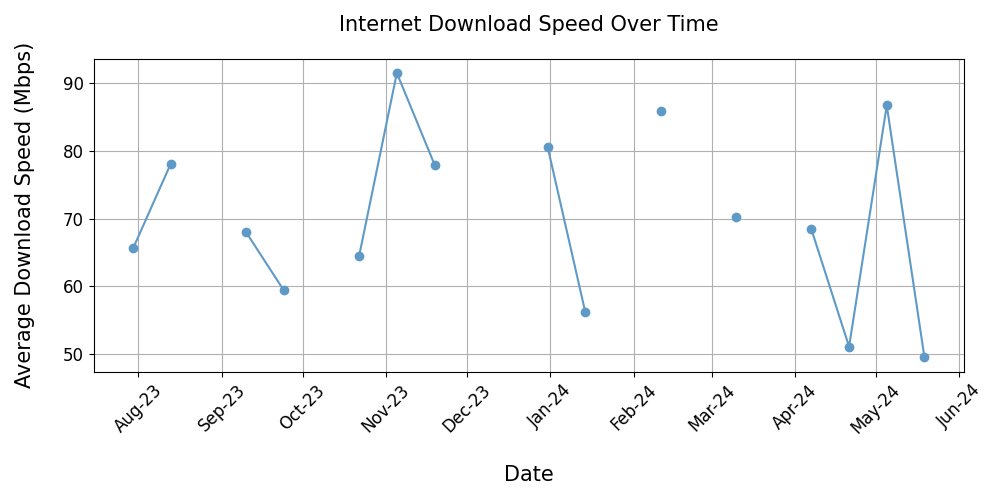
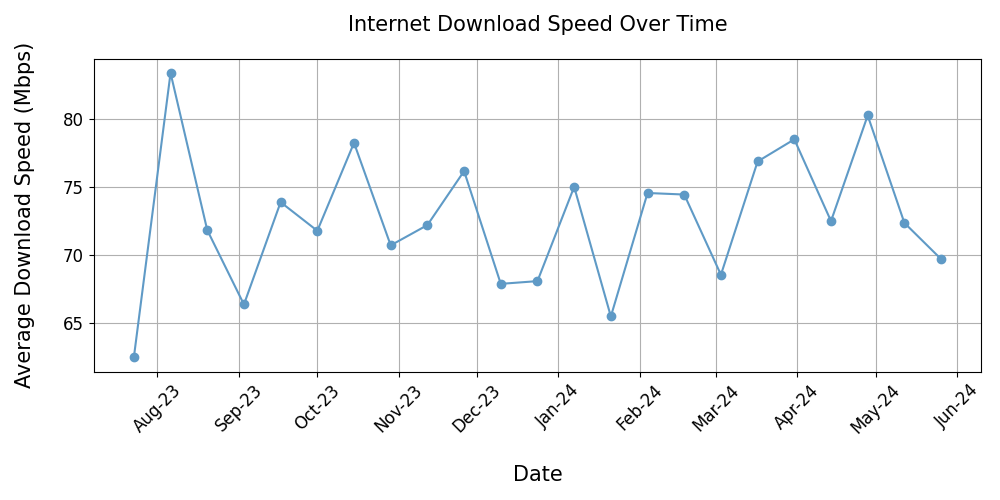
amended ai analysis

diff --git a/templates/analyse-ai.html b/templates/analyse-ai.html
@@ -14,32 +14,56 @@
 <div class="data-container">
     <div class="main-box">
             <h1><span class="highlight"> Analyse </span> your data </h1>
-        <table class="container" id="container1">
-            <tr>
-                <th><h2><span class="highlight-blue"> Summary</span></h2></th>
-            </tr>
-            <tr>
-
-                {% if summary == "": %}
-                  <td><h2>{{ message }}</h2></td>
-                {% else: %}
-                <td><h2>{{ summary }}</h2></td>
-                {% endif %}
-            </tr>
-            <tr>
-              <th><h2><span class="highlight-blue"> Recommendations</span></h2></th>
-            </tr>
-            <tr>
-                 {% if recommendations == "": %}
-                  <td><h2>{{ message }}</h2></td>
-                {% else: %}
-                <td><h2>{{ recommendations }}</h2></td>
-                {% endif %}
-            </tr>
-             <tr>
-                 <td colspan="2" class="bottom-row"><a href="{{ url_for('analyse') }}" class="btn btn-primary btn-block">Go Back</a></td>
-            </tr>
-        </table>
+<table class="container" id="container1">
+    <tr>
+        <th colspan="2"><h2><span class="highlight-blue">Summary</span></h2></th>
+    </tr>
+    <tr>
+        {% if summary == "" %}
+            <td colspan="2"><h3>{{ message }}</h3></td>
+        {% else %}
+            <td colspan="2"><h3>{{ sd_summary }}</h3></td>
+        {% endif %}
+    </tr>
+    <tr>
+        {% if summary == "" %}
+            <td colspan="2"><h3>{{ message }}</h3></td>
+        {% else %}
+            <td colspan="2"><h3>{{ avg_speed_summary }}</h3></td>
+        {% endif %}
+    </tr>
+    <tr>
+        <th colspan="2"><h2><span class="highlight-blue">Recommendations</span></h2></th>
+    </tr>
+    {% if recommendations == "" %}
+        <tr>
+            <td colspan="2"><h3>{{ message }}</h3></td>
+        </tr>
+    {% else %}
+        {% for key, value in recommendations.items() %}
+         <tr>
+             <th colspan="2"><h4><span class="highlight-blue">{{ key.replace("_"," ").title() }}</span></h4></th>
+         </tr>
+            {% if value is mapping %}
+                   {% for sub_key, sub_value in value.items() %}
+                <tr>
+                    <td><h5><strong>{{ sub_key.replace("_", " ").title() }}:</strong></h5></td>
+                    <td><h5> {{ sub_value }}</h5></td>
+                </tr>
+                  {% endfor %}
+            {% else %}
+                 <tr>
+                     <td colspan="2"><h3>{{ value }}</h3></td>
+                 </tr>
+            {% endif %}
+        {% endfor %}
+    {% endif %}
+    <tr>
+        <td colspan="2" class="bottom-row">
+            <a href="{{ url_for('analyse') }}" class="btn btn-primary btn-block">Go Back</a>
+        </td>
+    </tr>
+</table>
     </div>
 
 

diff --git a/static/css/analyse-ai.css b/static/css/analyse-ai.css
@@ -20,8 +20,29 @@ h1 {
 
 h2 {
     padding: 10px;
-    font-size: 22px;
+    font-size: 25px;
     line-height: 1.4;
+}
+
+h3 {
+    padding: 10px;
+    font-size: 19px;
+    line-height: 1.7;
+    text-align: justify;
+}
+
+h4 {
+    padding: 10px;
+    font-size: 22px;
+    font-weight:bold;
+    line-height: 1.4;
+    text-align:left;
+}
+
+h5 {
+    padding: 10px;
+    font-size: 19px;
+    line-height: 1.7;
 }
 
 .highlight {
@@ -55,7 +76,7 @@ h2 {
     box-shadow: 0 4px 8px rgba(0, 0, 0, 0.2);
     border-radius: 8px;
     min-width: 500px;
-    width: 60%; /* Adjust this as necessary */
+    width: 75%; /* Adjust this as necessary */
     height: 60%;
     display: flex; /* Use flexbox to manage containers */
     flex-direction: column; /* Arrange elements vertically */
@@ -73,7 +94,7 @@ h2 {
     align-items: center; /* Horizontally center content */
     border: 5px solid #5f9ac6;
     box-shadow: 0 0 15px rgba(0, 0, 0, 0.1);
-    padding: 36px;
+    padding: 70px;
     text-align: center;
 }
 
@@ -95,17 +116,20 @@ h2 {
 
 .container table {
     border-collapse: collapse; /* Collapse borders into a single border */
-    width: 100%; /* Make the table fill its container */
+    width: 60%; /* Make the table fill its container */
 }
 
 .container td {
     border: none;
 }
 
+
 @media (max-width: 700px) {
     .data-container h2 {
         font-size: 20px;
     }
+
+
 }
 
 @media (max-width: 600px) {

diff --git a/server.py b/server.py
@@ -31,6 +31,7 @@ class Base(DeclarativeBase):
 
 load_dotenv()
 open_ai_api_key = os.getenv("OPENAI_API_KEY")
+
 client = OpenAI(
     api_key=open_ai_api_key
 )
@@ -79,45 +80,77 @@ def create_app():
 app = create_app()
 
 # Below is the AI analysis on speed data
-def complete(prompt, model="gpt-3.5-turbo", temperature=1, max_tokens=300, stop=None):
-    chat_completion = client.chat.completions.create(
-        messages=[
-            {
-                "role": "system",
-                "content": """I have some internet speed data. 
-                I want to work out what my standard deviation indicates within the context of the range of the data. I want the response to be in a json or dictionary
-                Example prompt:
-                {"Standard Deviation": 71.60, "Range": 100}
-                Example response:
-                {"level of variability": "High",
-                "summary": "The high standard deviation relative to the range suggests that performance consistency is poor. This could lead to significant unpredictability in internet speed, affecting activities that require stable connections, such as video conferencing, streaming high-quality video, or online gaming.",
-                "recommendations": "It would be advisable to conduct a thorough assessment of the network to identify potential causes of such high variability. Checking for sources of interference, ensuring the router is optimally placed to avoid obstructions, and setting up quality of service (QoS) configurations to prioritize traffic could help reduce this variability."}
-                The level of variability should be either 'Very High', 'High', 'Moderate', 'Low', or 'Very Low'
-                """
-            },
-            {
-                "role": "user",
-                "content": json.dumps(prompt),  # Ensure the prompt is properly formatted as JSON
-            }
-        ],
-        model=model,
-        temperature=temperature,
-        max_tokens=max_tokens,
-        top_p=1,
-        frequency_penalty=0,
-        presence_penalty=0,
-        stop=stop
+def complete(prompt, model="gpt-3.5-turbo", temperature=1, max_tokens=700, stop=None):
+    # System prompt with dictionary keys for recommendations
+    system_prompt = (
+        "I have some internet speed data. I am trying to analyze my internet download speed data. "
+        "The units are MBPs download speed. Please provide analysis in the following format:\n\n"
+        "Level of variability: (Either Very Low, Low, Moderate, High, or Very High)\n\n"
+        "Standard-Deviation-Summary: (Analysis of internet speed variability based on the standard deviation compared to the range.)\n\n"
+        "Average-Speed-Summary: (Analysis of quality of broadband based on the average download speed.)\n\n"
+        "Recommendations: (Based on the Standard-Deviation-Summary and Average-Speed-Summary provide recommendations on how to improve internet download speed and internet download speed consistency in dictionary format.)\n\n"
+        "Example prompt:\n"
+        '{"Standard Deviation": 8.1, "Range": 20, "Average Speed": 15.2}\n'
+        "Example response:\n"
+        '{\n'
+        '    "level of variability": "High",\n'
+        '    "standard-deviation-summary": "The standard deviation of your internet download speed is 8.1 MBps, which indicates a high level of variability. Standard deviation measures the spread of data points around the mean; a higher value suggests that there are significant fluctuations in your download speeds. Given the range of 20 MBps, this variability means that at times your download speeds might drop significantly below the average or rise well above it, leading to an inconsistent internet experience.",\n'
+        '    "average-speed-summary": "The average download speed of 15.2 MBps suggests that your broadband connection is relatively decent for general web browsing, streaming standard definition videos, and downloading files. However, for high-definition streaming, online gaming, or activities that require a stable and higher speed, this might not be optimal, especially considering the high variability. Modern internet usage often demands consistent and higher speeds, and your average speed indicates that while it is serviceable, it may not provide the best experience for more data-intensive tasks.",\n'
+        '    "recommendations": {\n'
+        '        "upgrade_plan": "Consider a higher-tier internet plan offering speeds in the 50-100 MBps range for a more robust performance.",\n'
+        '        "optimize_network_setup": {\n'
+        '            "router_placement": "Position your router centrally and away from obstructions.",\n'
+        '            "update_router_firmware": "Keep your router firmware updated for improved performance.",\n'
+        '            "wired_connection": "Use Ethernet cables for critical devices to reduce variability."\n'
+        '        },\n'
+        '        "check_network_congestion": {\n'
+        '            "bandwidth_management": "Limit the number of active devices during peak times.",\n'
+        '            "quality_of_service": "Enable QoS on your router to prioritize important traffic."\n'
+        '        },\n'
+        '        "isp_assistance": "Contact your ISP to check for line issues or equipment upgrades.",\n'
+        '        "consider_alternative_isps": "If current performance is consistently poor, explore other ISPs that might offer better infrastructure and reliability."\n'
+        '    }\n'
+        '}'
     )
 
-    # Check if the response is a string and convert it to a dictionary if necessary
+    # Make the API call and handle potential errors
+    try:
+        chat_completion = client.chat.completions.create(
+            messages=[
+                {
+                    "role": "system",
+                    "content": system_prompt,
+                },
+                {
+                    "role": "user",
+                    "content": json.dumps(prompt),
+                }
+            ],
+            model=model,
+            temperature=temperature,
+            max_tokens=max_tokens,
+            top_p=1,
+            frequency_penalty=0,
+            presence_penalty=0,
+            stop=stop
+        )
 
-    response_content = chat_completion.choices[0].message.content
-    if isinstance(response_content, str):
-        response_dict = json.loads(response_content)
-    else:
-        response_dict = response_content
+        response_content = chat_completion.choices[0].message.content
 
-    return response_dict
+        print(response_content)
+        try:
+            response_dict = json.loads(response_content)
+        except json.JSONDecodeError as e:
+            print(f"JSONDecodeError: {e}")
+            return {"error": "Failed to decode JSON response from API"}
+
+        return response_dict
+
+    except Exception as e:
+        print(f"Error: {e}")
+        return {"error": "An error occurred while calling the API"}
+
+
 
 # Below creates user and speeds tables
 
@@ -147,7 +180,7 @@ with app.app_context():
     # Adds fake records
     # for _ in range(30):
     #     new_speed = Speed(
-    #         user_id=2,
+    #         user_id=4,
     #         speed=round(random.uniform(41.20, 101.50),2),
     #         date=datetime.now() - timedelta(days=random.randint(0, 300))
     #     )
@@ -211,11 +244,12 @@ def analyse_ai():
         min_speed = round(df['Speed Values'].min(), 2)
         std = round(df['Speed Values'].std(), 2)
         range = max_speed - min_speed
-        prompt_dict = {"Standard Deviation": std, "Range": range}
+        prompt_dict = {"Standard Deviation": std, "Range": range, "Average Speed": average_speed}
         response = complete(prompt_dict)
-        summary = response["summary"]
+        sd_summary = response["standard-deviation-summary"]
+        avg_speed_summary = response["average-speed-summary"]
         recommendations = response["recommendations"]
-    return render_template("analyse-ai.html", summary=summary, recommendations=recommendations, message=message)
+    return render_template("analyse-ai.html", recommendations=recommendations,sd_summary=sd_summary, avg_speed_summary=avg_speed_summary, message=message)
 
 # Below is the data page
 
@@ -256,7 +290,6 @@ def visualise():
     if len(df) >= 20:
         df.set_index('Date', inplace=True)
         df = df.resample('2W').mean()  # '2W' denotes bi-weekly frequency
-
     plt.figure(figsize=(10, 5))
     plt.plot(df.index, df['Download Speed'], marker='o', linestyle='-', color='#5f9ac6')
     plt.title('Internet Download Speed Over Time', fontsize=15,pad=20)
